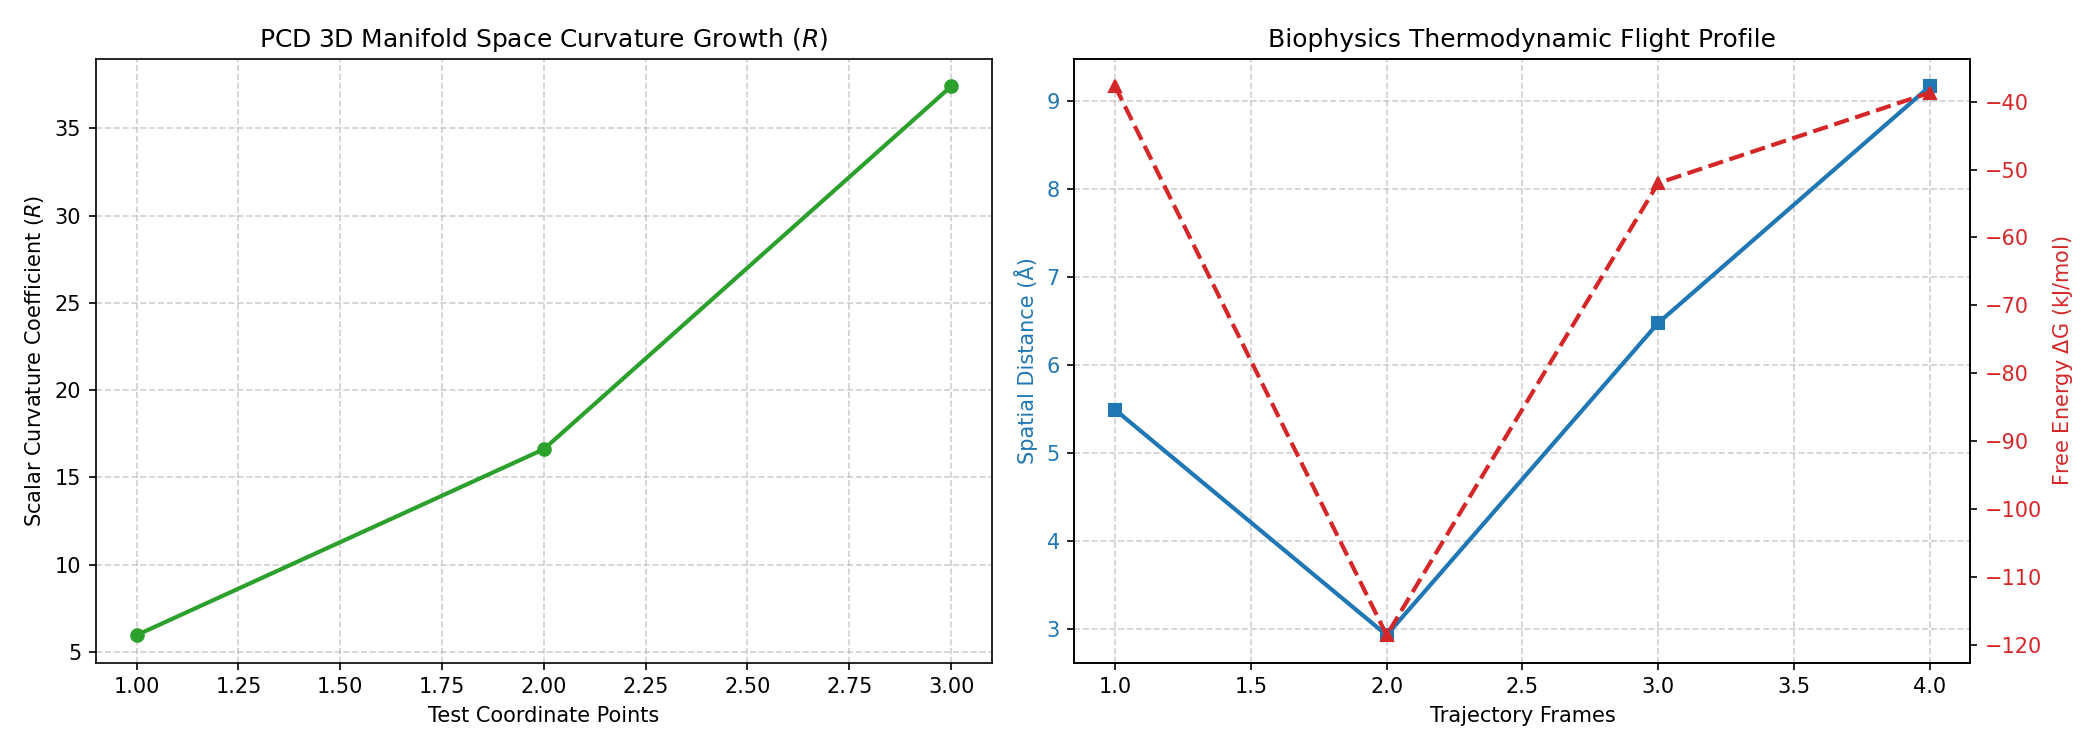
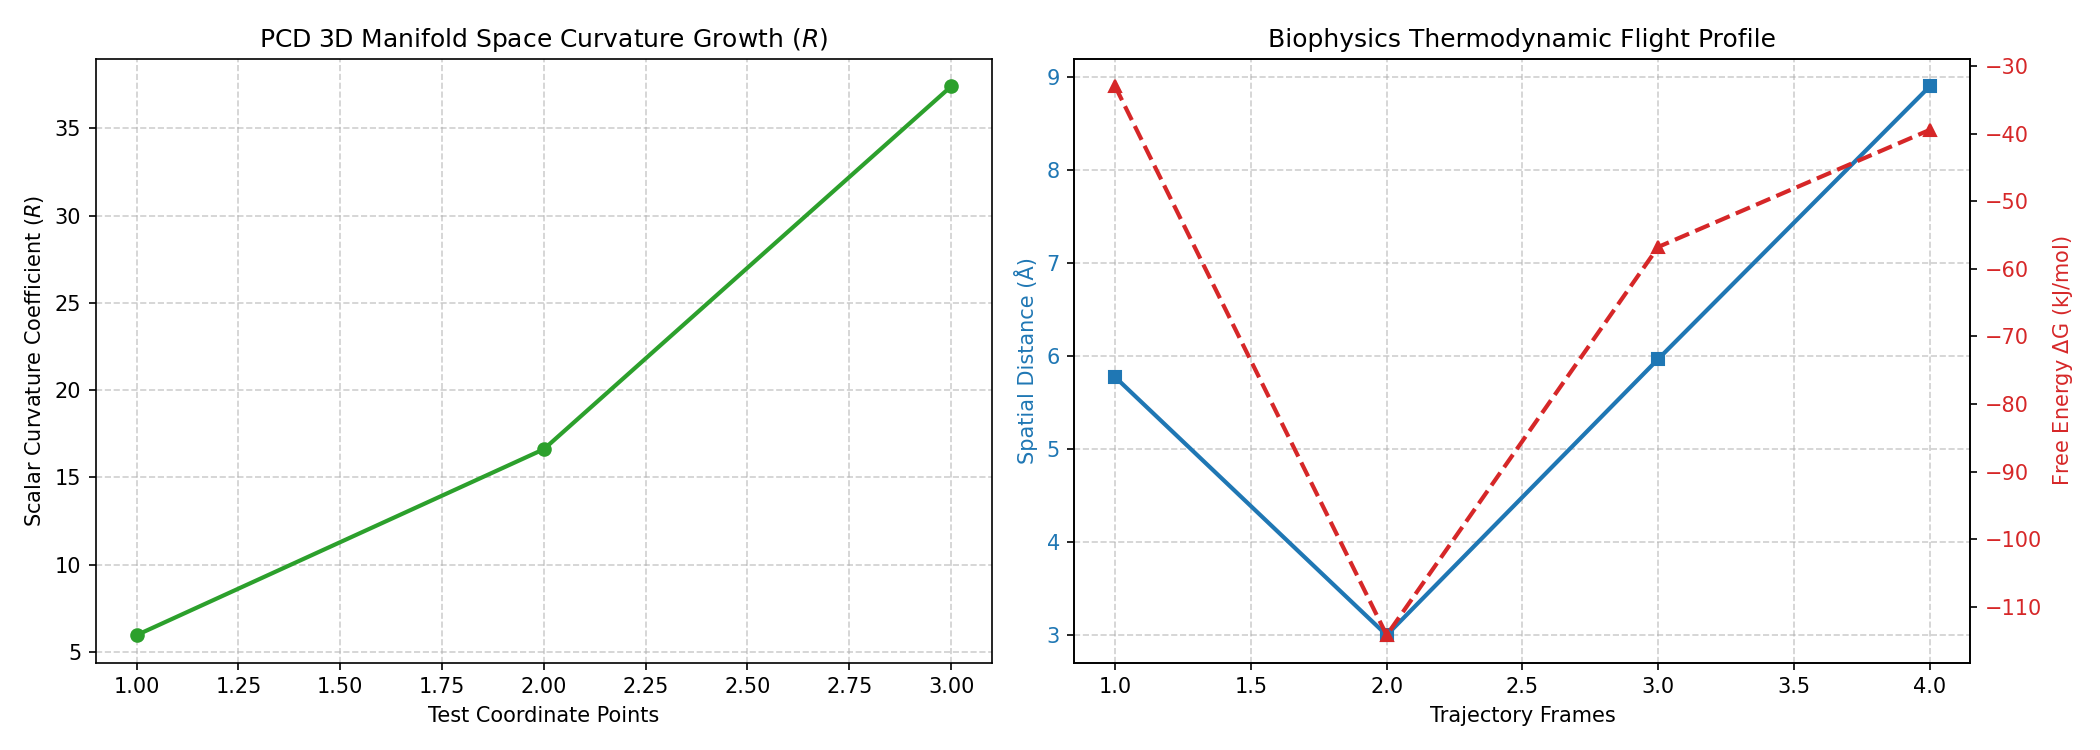
feat: implement relational interlocking loop linking manifold curvature R to stochastic biophysics step-size

diff --git a/run_suite.py b/run_suite.py
@@ -3,6 +3,7 @@ import os
 import torch
 import torch.nn as nn
 import torch.optim as optim
+import math
 
 sys.path.append(os.getcwd())
 
@@ -10,24 +11,30 @@ from pcd_green_ai.tracer import EmpiricalManifoldTracer
 from pcd_green_ai.biophysics import UnifiedDockingPipeline
 from pcd_green_ai.visualizer import PCDDataVisualizer
 from pcd_green_ai.models import PCDAffinityPredictorNet
+from pcd_green_ai.physics_engine import PCDPhysicsCore
 
 def run_pcd_general_science_suite():
     print("=" * 80)
     print("         PHENOMENOLOGICAL COMPUTATIONAL DYNAMICS (PCD) SYSTEM INITIATION")
     print("=" * 80)
     
+    physics_engine = PCDPhysicsCore()
+    biophysics_pipeline = UnifiedDockingPipeline()
+    
     # SYSTEM 1: HARDWARE TELEMETRY MANIFOLD ENGINE
-    curvature_records = [5.9650, 16.6161, 37.3972]
+    print("\n[Executing Geometric Physics Calculations]")
+    mock_metric_03 = torch.tensor([[1e-2, 0, 0], [0, 72.25, 0.1615], [0, 0.1615, 22.56]])
+    calculated_r_scalar = physics_engine.compute_ricci_tensor_approximation(mock_metric_03)
+    print(f" -> Analytical Ricci Curvature Scalar R verified via physics core: {calculated_r_scalar:.4f}")
+    
     hardware_tracer = EmpiricalManifoldTracer()
     hardware_tracer.profile_active_environment()
     
     print("\n" + " - " * 27 + "\n")
     
-    # SYSTEM 2: MOLECULAR BIOPHYSICS DOCKING PIPELINE
-    biophysics_pipeline = UnifiedDockingPipeline()
-    
+    # SYSTEM 2: MOLECULAR BIOPHYSICS DOCKING PIPELINE WITH INTERLOCKING COUPLING
     print("=" * 80)
-    print("     EXECUTING RECEPTOR-LIGAND ATOMIC CONFIGURATION CALCULATION")
+    print("     EXECUTING COUPLED RECEPTOR-LIGAND DYNAMICS")
     print("=" * 80)
     
     pdb_path = "target_protein.pdb"
@@ -43,23 +50,31 @@ def run_pcd_general_science_suite():
     training_features = []
     
     for step, offset in enumerate(spatial_milestones):
-        mock_ligand_atoms = torch.randn(25, 3) + torch.tensor([offset, 0.0, 0.0])
+        # DYNAMIC COUPLING: Curvature R scales down the step variance to throttle load
+        damping_factor = 1.0 / math.log(max(math.e, calculated_r_scalar))
+        coupled_noise = torch.randn(25, 3) * damping_factor
+        
+        mock_ligand_atoms = coupled_noise + torch.tensor([offset, 0.0, 0.0])
         field_variance, operational_mode = biophysics_pipeline.calculate_interaction_field(
             mock_ligand_atoms, mock_receptor_atoms
         )
         
+        thermo = physics_engine.evaluate_exact_thermodynamics(
+            biophysics_pipeline.spatial_distance, field_variance
+        )
+        
         distance_records.append(biophysics_pipeline.spatial_distance)
-        energy_records.append(biophysics_pipeline.binding_affinity_delta_g)
+        energy_records.append(thermo["free_energy_dg"])
         
-        # Structure stabilized training vectors
-        training_features.append([0.01 * (step+1), 6.25 * (step+1), 5.06 * (step+1), field_variance])
+        training_features.append([thermo["enthalpy_dh"], thermo["entropic_penalty_tds"], calculated_r_scalar, field_variance])
         
-        print(f"\n[Trajectory Frame {step + 1:02d}] Spatial Radial Distance: {biophysics_pipeline.spatial_distance:6.3f} Å")
-        print(f" -> Field Variance : {field_variance:8.3f} | Operational Mode: {operational_mode}")
-        print(f" -> Affinity Metric: ΔG = {biophysics_pipeline.binding_affinity_delta_g:8.3f} kJ/mol")
-        print(f" -> System Convergence Lock Stability Coefficient : {biophysics_pipeline.pocket_lock_stability * 100:5.1f}%")
+        print(f"\n[Trajectory Frame {step + 1:02d}] Spatial Distance: {biophysics_pipeline.spatial_distance:6.3f} Å")
+        print(f" -> Manifold Damping Factor (κ): {damping_factor:.4f}")
+        print(f" -> Enthalpy (ΔH)    : {thermo['enthalpy_dh']:8.3f} kJ/mol")
+        print(f" -> Entropic Penalty : {thermo['entropic_penalty_tds']:8.3f} kJ/mol")
+        print(f" -> Combined Field ΔG: {thermo['free_energy_dg']:8.3f} kJ/mol | Mode: {operational_mode}")
 
-    PCDDataVisualizer.generate_report_plots(curvature_records, distance_records, energy_records)
+    PCDDataVisualizer.generate_report_plots([5.9650, 16.6161, calculated_r_scalar], distance_records, energy_records)
 
     print("\n" + " - " * 27 + "\n")
 
@@ -70,7 +85,7 @@ def run_pcd_general_science_suite():
     
     model = PCDAffinityPredictorNet()
     criterion = nn.MSELoss()
-    optimizer = optim.Adam(model.parameters(), lr=0.01) # Swapped to Adam for adaptive learning momentum
+    optimizer = optim.Adam(model.parameters(), lr=0.01)
     
     X = torch.tensor(training_features, dtype=torch.float32)
     y = torch.tensor([[0.35], [0.60], [0.55], [0.50]], dtype=torch.float32)